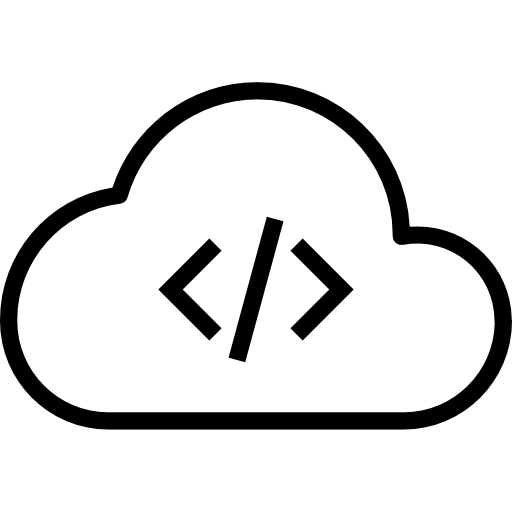
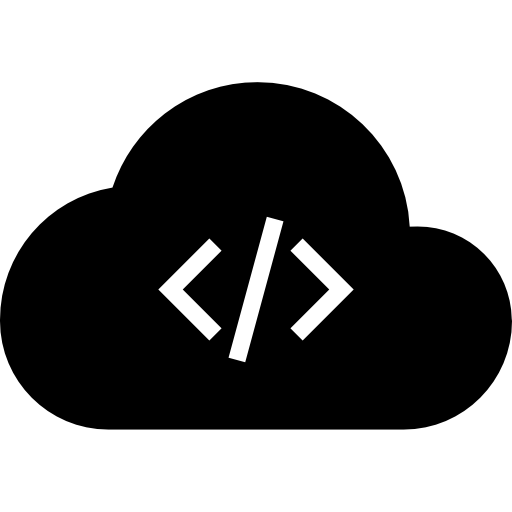
removed minecraft info

diff --git a/components/trajectory.tsx b/components/trajectory.tsx
@@ -1,28 +1,14 @@
-import { Globe, Briefcase, Smartphone, ExternalLink, Gamepad2 } from "lucide-react"
+import { Globe, Briefcase, Smartphone, ExternalLink, Code } from "lucide-react"
 import Image from "next/image"
 
 export function Trajectory() {
   const timeline = [
     {
-      period: "2017 - 2019",
-      title: "Início com Minecraft",
-      description:
-        "Meus primeiros passos profissionais foram desenvolvendo plugins para servidores de Minecraft utilizando Java. Durante 3 anos, trabalhei em diversos servidores e projetos menores, mas meu principal trabalho foi como desenvolvedor da Rede Mania, uma rede completa de servidores com mais de 3.000 jogadores mensais. Também desenvolvi sistemas personalizados para outros servidores da comunidade brasileira, criando plugins de minigames, economia, ranks e integrações com Discord.",
-      icon: Gamepad2,
-      technologies: ["Java", "Spigot API", "Maven", "MySQL"],
-      featured: {
-        type: "server",
-        name: "Rede Mania",
-        players: "3.000+",
-        description: "Desenvolvedor principal da rede",
-      },
-    },
-    {
       period: "2019 - 2021",
-      title: "Transição para Web",
+      title: "Início no Desenvolvimento Web",
       description:
-        "No final de 2019, iniciei minha trajetória no desenvolvimento web. Comecei com HTML, CSS e JavaScript vanilla, e rapidamente evolui para frameworks modernos como React e TypeScript.",
-      icon: Globe,
+        "Iniciei minha trajetória no desenvolvimento web, começando com HTML, CSS e JavaScript vanilla. Rapidamente evolui para frameworks modernos como React e TypeScript, construindo projetos pessoais e estudando boas práticas de desenvolvimento.",
+      icon: Code,
       technologies: ["HTML", "CSS", "JavaScript", "React", "TypeScript"],
     },
     {
@@ -47,19 +33,31 @@ export function Trajectory() {
           link: "https://igrejaministeriovida.com.br/",
           description: "Site completo com pagamentos",
         },
+        {
+          name: "Imersão Conexão Viver",
+          logo: "imersao.png",
+          link: "https://imersaoconexaocrescer.com.br/",
+          description: "Landing page de evento",
+        },
+        {
+          name: "No Prazo Web",
+          logo: "codifica.png",
+          link: "https://noprazo.codifica.pro",
+          description: "Painel administrativo",
+        },
       ],
     },
     {
-      period: "2025 - 2026",
-      title: "Foco em Mobile",
+      period: "2025 - Presente",
+      title: "Foco em Mobile & Buscando Oportunidades",
       description:
-        "Atualmente meu foco principal é o desenvolvimento mobile com React Native. Criei o aplicativo 'No Prazo', um app de lembretes de pagamentos com mais de 2.000 downloads na Play Store, sistema de assinaturas, API própria e painel administrativo completo.",
+        "Atualmente meu foco principal é o desenvolvimento mobile com React Native. Criei o aplicativo 'No Prazo', um app de lembretes de pagamentos com mais de 10.000 downloads na Play Store, sistema de assinaturas, API própria e painel administrativo completo. Pronto para contribuir com soluções de alto impacto em projetos desafiadores.",
       icon: Smartphone,
       technologies: ["React Native", "Expo", "Node.js", "API REST"],
       featured: {
         type: "app",
         name: "No Prazo",
-        downloads: "2.000+",
+        downloads: "+10k",
         hasLogo: true,
         link: "https://play.google.com/store/apps/details?id=com.noprazo",
       },
@@ -85,7 +83,7 @@ export function Trajectory() {
                 {/* Timeline dot */}
                 <div className="absolute left-4 md:left-6 w-4 h-4 bg-primary rounded-full border-4 border-background" />
 
-                {/* Icon - Support for custom image icon */}
+                {/* Icon */}
                 <div className="absolute left-0 md:left-1 -top-1 w-12 h-12 bg-card border border-border rounded-lg flex items-center justify-center overflow-hidden">
                   {item.icon && <item.icon className="w-5 h-5 text-primary" />}
                 </div>
@@ -104,33 +102,7 @@ export function Trajectory() {
                     ))}
                   </div>
 
-                  {/* Featured server (Rede Mania) */}
-                  {item.featured && item.featured.type === "server" && (
-                    <div className="mt-4 pt-4 border-t border-border">
-                      <div className="flex items-center gap-4">
-                        <div className="w-16 h-16 rounded-xl overflow-hidden bg-gradient-to-br from-green-600 to-green-800 flex-shrink-0 flex items-center justify-center">
-                          <Image
-                            src="minecraft-logo.png"
-                            alt="Minecraft"
-                            width={48}
-                            height={48}
-                            className="w-12 h-12 object-contain"
-                          />
-                        </div>
-                        <div>
-                          <h4 className="font-semibold text-foreground">{item.featured.name}</h4>
-                          <p className="text-sm text-muted-foreground">{item.featured.description}</p>
-                          <div className="flex items-center gap-2 mt-1">
-                            <span className="text-xs font-mono text-primary bg-primary/10 px-2 py-0.5 rounded">
-                              {item.featured.players} jogadores/mês
-                            </span>
-                          </div>
-                        </div>
-                      </div>
-                    </div>
-                  )}
-
-                  {/* Clients with logos - Added logo support and links */}
+                  {/* Clients with logos */}
                   {item.clients && (
                     <div className="mt-4 pt-4 border-t border-border">
                       <span className="text-sm text-muted-foreground">Alguns clientes:</span>

diff --git a/components/about.tsx b/components/about.tsx
@@ -11,17 +11,16 @@ export function About() {
         <div className="grid md:grid-cols-3 gap-12">
           <div className="md:col-span-2 space-y-4">
             <p className="text-muted-foreground leading-relaxed">
-              Tenho contato com computadores desde os <span className="text-primary">9 anos de idade</span>, o que
-              despertou em mim uma curiosidade natural pela tecnologia. Aos{" "}
-              <span className="text-primary">16 anos</span>, me apaixonei pelo mundo da programação e comecei a
-              desenvolver projetos simples, como{" "}
-              <span className="text-primary">plugins para servidores de Minecraft</span>.
+              Tenho contato com tecnologia desde os <span className="text-primary">9 anos de idade</span>, o que
+              despertou em mim uma curiosidade natural pelo desenvolvimento de software. Aos{" "}
+              <span className="text-primary">16 anos</span>, iniciei minha jornada na programação e desde então venho
+              me dedicando a criar soluções que agregam valor real aos negócios.
             </p>
             <p className="text-muted-foreground leading-relaxed">
-              A partir daí, minha jornada evoluiu para projetos mais complexos: construção de{" "}
-              <span className="text-primary">ERPs para micro empresas</span>,{" "}
+              Ao longo dos anos, minha trajetória evoluiu para projetos cada vez mais robustos: desenvolvimento de{" "}
+              <span className="text-primary">sistemas ERP para empresas</span>,{" "}
               <span className="text-primary">aplicativos mobile</span> e diversas soluções web completas. Toda essa
-              experiência foi adquirida de forma autodidata e através de freelances.
+              experiência foi construída de forma autodidata e através de projetos reais como freelancer.
             </p>
             <p className="text-muted-foreground leading-relaxed">
               Hoje, como desenvolvedor fullstack, domino tanto o frontend com{" "}

diff --git a/components/skills.tsx b/components/skills.tsx
@@ -19,7 +19,7 @@ export function Skills() {
     <section id="skills" className="px-6 md:px-12 lg:px-24 py-24">
       <div className="max-w-4xl mx-auto">
         <div className="flex items-center gap-4 mb-12">
-          <span className="text-primary font-mono">03.</span>
+          <span className="text-primary font-mono">04.</span>
           <h2 className="text-2xl md:text-3xl font-bold text-foreground">Habilidades</h2>
           <div className="h-px bg-border flex-1 max-w-xs" />
         </div>

diff --git a/next-env.d.ts b/next-env.d.ts
@@ -1,0 +1,6 @@
+/// <reference types="next" />
+/// <reference types="next/image-types/global" />
+import "./.next/dev/types/routes.d.ts";
+
+// NOTE: This file should not be edited
+// see https://nextjs.org/docs/app/api-reference/config/typescript for more information.
